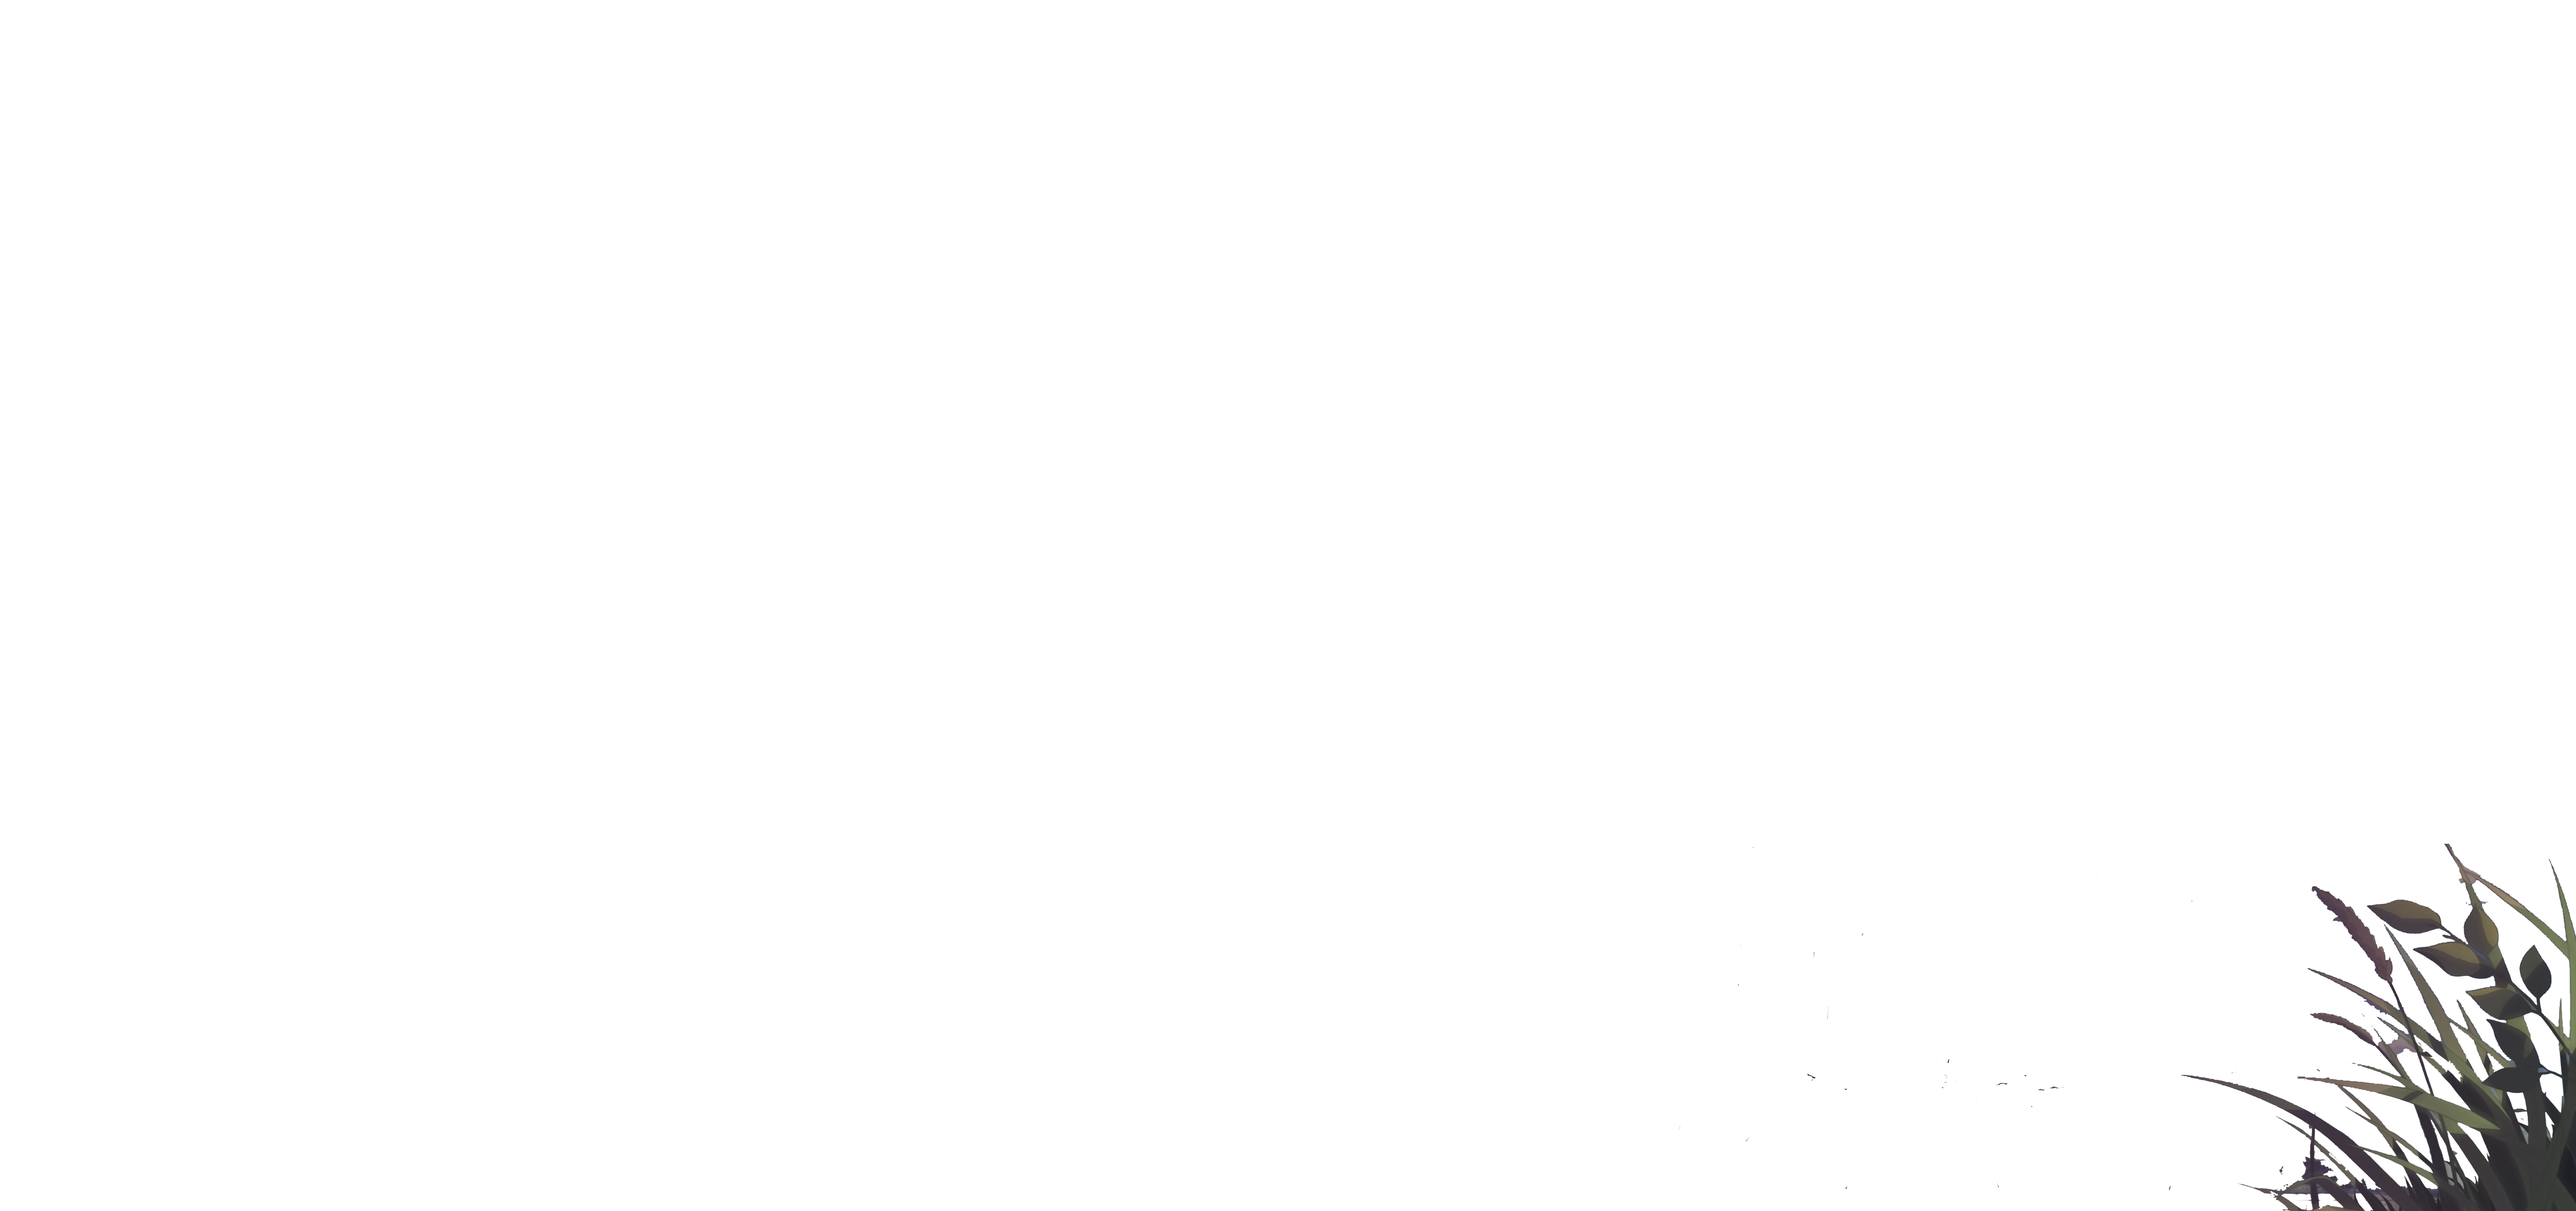
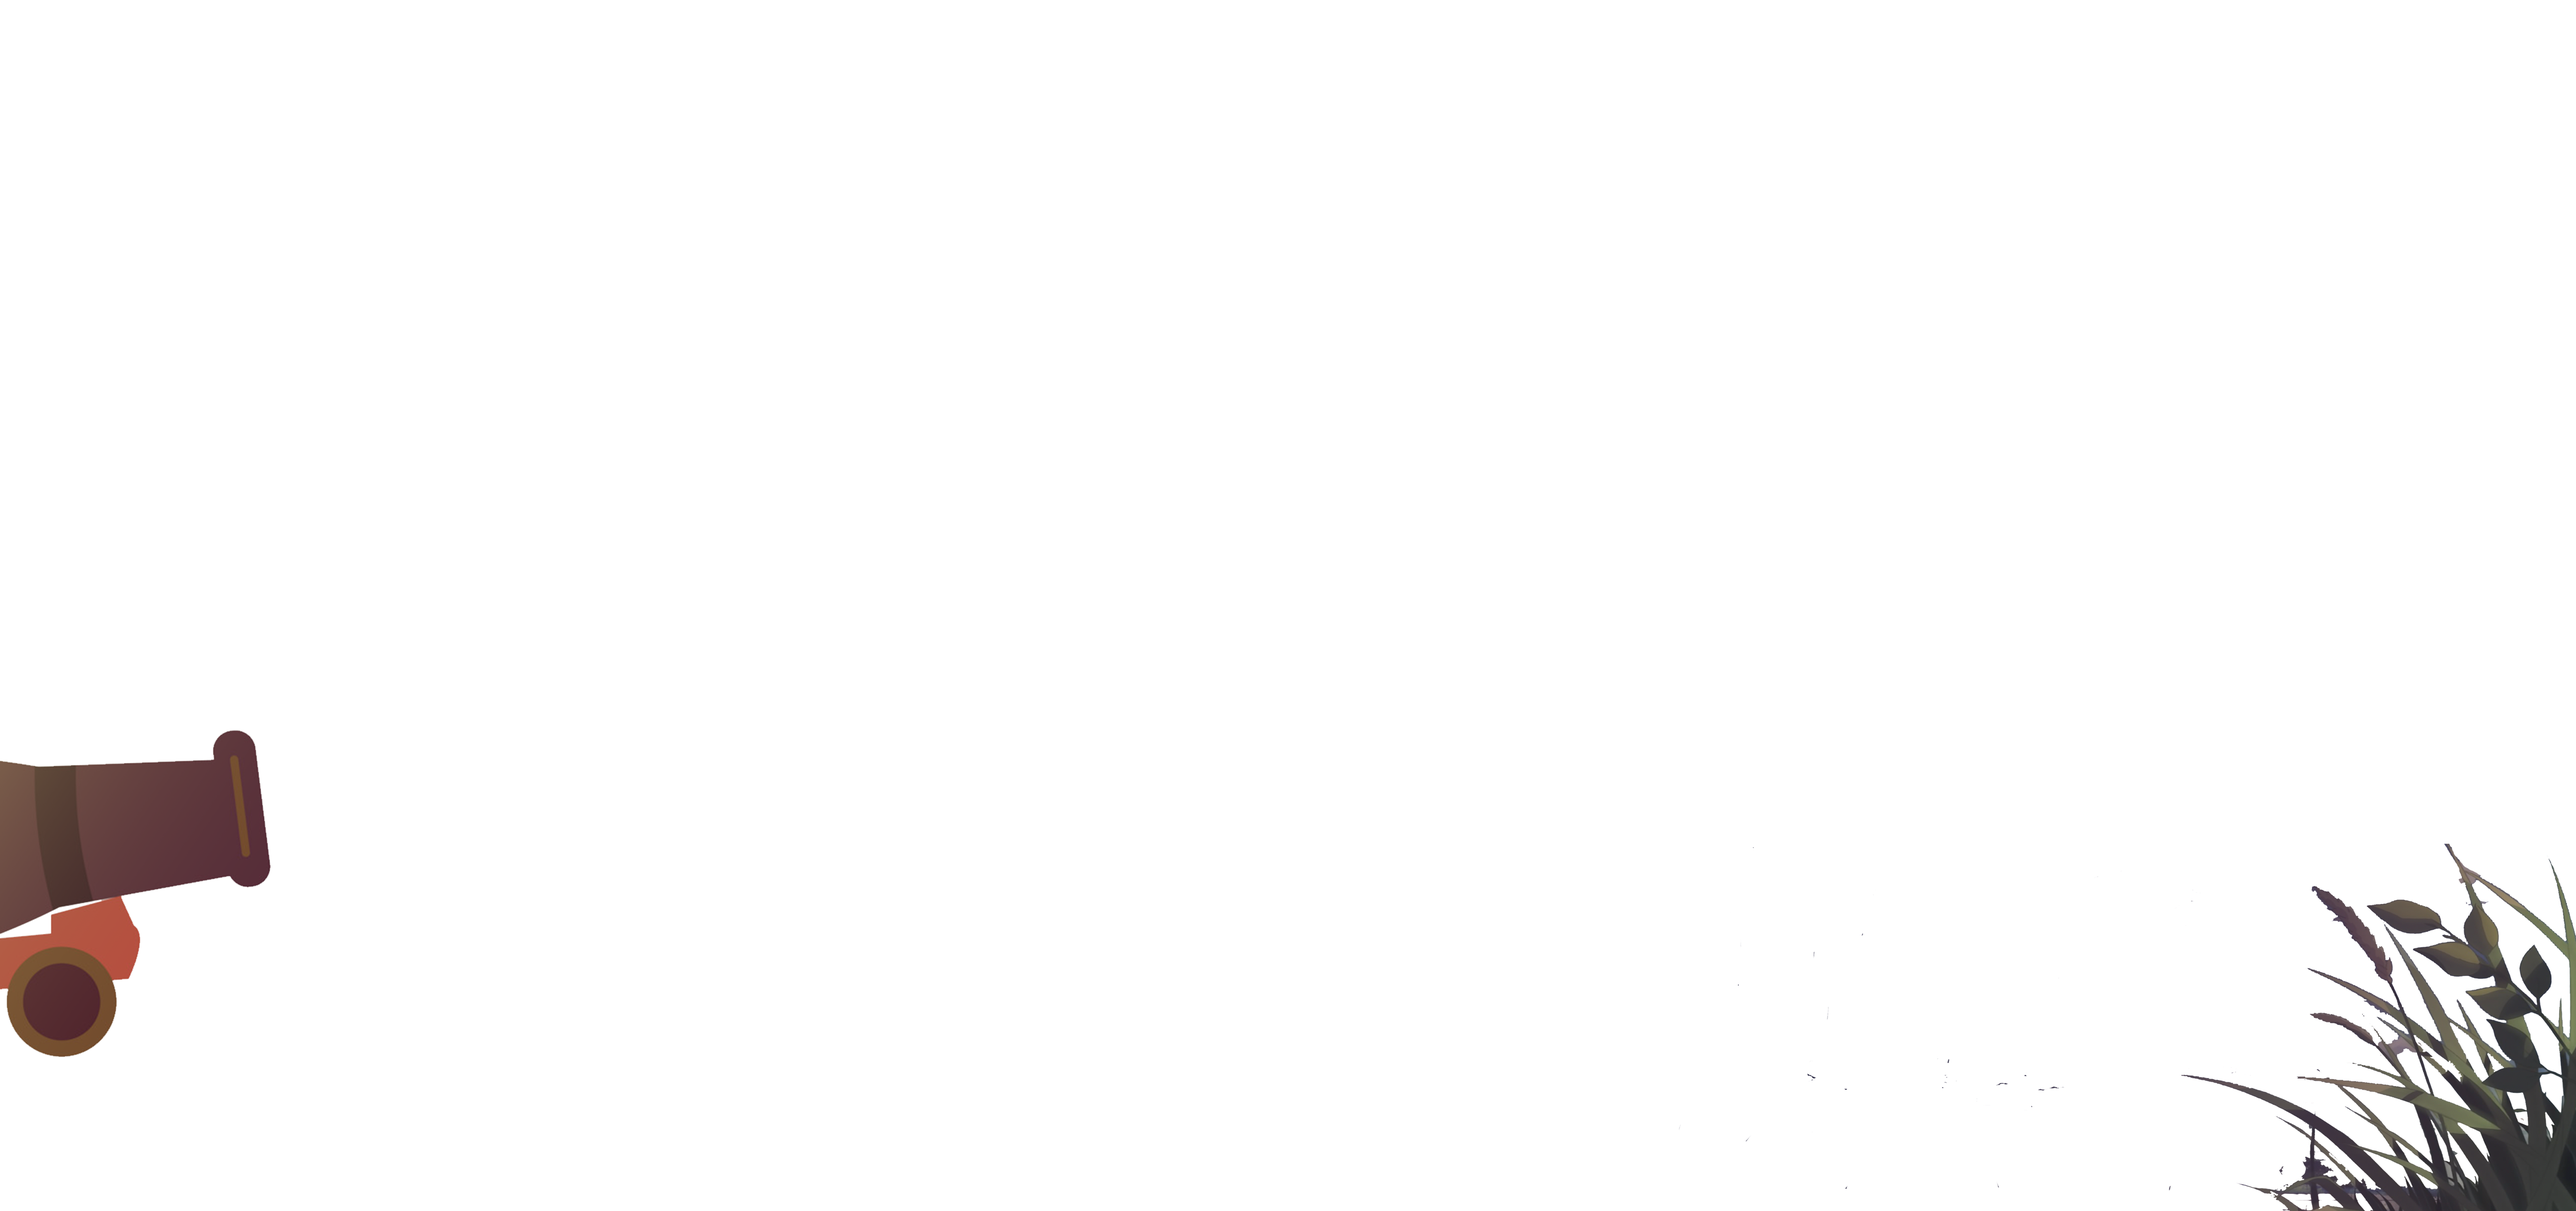
Added score screen, more breakables, and other fixes

Changed region(s): [[0.0, 0.592, 0.125, 0.8725]]

diff --git a/Gravity/GrumpyLizads.py b/Gravity/GrumpyLizads.py
@@ -10,7 +10,7 @@ from coords import Coords
 from polygon_stub import Polygon
 from wallPolygon import Wall
 from math import sqrt, acos, degrees, sin, cos
-from random import randint, random
+from random import uniform, randint, random
 from decimal import Decimal
 
 # Define some colors
@@ -133,15 +133,27 @@ def resolve_collision(result):
         
         if b.type == "polygon":
             if not a.breakable and b.breakable:
-                threshold = 0.4
+                if b.pig:
+                    threshold = 0.1
+                else:
+                    threshold = 0.6
                 if Jb.x > threshold or Jb.x < -threshold or Jb.y > threshold or Jb.y < -threshold:
                     b.destroyed = True
+            if a.breakable and b.breakable:
+                if b.pig:
+                    threshold = .1
+                    if Jb.x > threshold or Jb.x < -threshold or Jb.y > threshold or Jb.y < -threshold:
+                        b.destroyed = True
+        if b.type == "wall":
+            if a.pig:
+                threshold = 3
+                if Ja.x > threshold or Ja.x < -threshold or Ja.y > threshold or Ja.y < -threshold:
+                    a.destroyed = True
         
         a.impulse(Ja,pt)
         b.impulse(-Jb,pt)
     
 def main():
-    breakables = 2
     pygame.init()
     
     # Variable where the position where the new ball will be placed is stored
@@ -153,6 +165,12 @@ def main():
     
     background2 = pygame.image.load("background2.png")
     background2 = pygame.transform.scale(background2, (1600, 600))
+    
+    star = pygame.image.load("star-icon.png")
+    star = pygame.transform.scale(star, (100, 100))
+    
+    star2 = pygame.image.load("star-icon2.png")
+    star2 = pygame.transform.scale(star2, (100, 100))
  
     width = 1600
     height = 600
@@ -243,23 +261,20 @@ def main():
                     backgroundOffset = 0
                     mouseDownPosition = Vec2d(-1, -1)
                     score = 0
+                    breakables = 3
                     scoreText = myfont.render("Score = "+str(score), False, (255, 255, 255))
                 
                     # Blocks
-                    objects.append(Polygon(Vec2d(2,-1.75), Vec2d(0,0), 1, make_rectangle(2, 1), GRAY, 0, 0, False))
-                    objects.append(Polygon(Vec2d(1.4, -.25), Vec2d(0,0), 1, make_rectangle(0.6, 1.7), GRAY, 0, 0, False))
-                    objects.append(Polygon(Vec2d(2.6, -.25), Vec2d(0,0), 1, make_rectangle(0.6, 1.7), GRAY, 0, 0, False))
-                    objects.append(Polygon(Vec2d(5, -.25), Vec2d(0,0), 1, make_rectangle(1, 4), GRAY, 0, 0, False))
+                    
+                    objects.append(Polygon(Vec2d(2,-1.75), Vec2d(0,0), 1, make_rectangle(2, 1), GRAY, 0, 0))
+                    objects.append(Polygon(Vec2d(1.4, -.25), Vec2d(0,0), 1, make_rectangle(0.6, 1.7), GRAY, 0, 0))
+                    objects.append(Polygon(Vec2d(2.6, -.25), Vec2d(0,0), 1, make_rectangle(0.6, 1.7), GRAY, 0, 0))
+                    objects.append(Polygon(Vec2d(5, -.25), Vec2d(0,0), 1, make_rectangle(1, 4), GRAY, 0, 0))
+                    
                     # PIGS
-                    objects.append(Polygon(Vec2d(2, -1), Vec2d(0,0), 1, make_rectangle(0.4, 0.4), GREEN, 0, 0, True))
-                    objects.append(Polygon(Vec2d(5, 2), Vec2d(0,0), 1, make_rectangle(0.4, 0.4), GREEN, 0, 0, True))
-                    #objects.append(Polygon(Vec2d(-.75, .6), Vec2d(0,0), 1, make_rectangle(0.25, 1.5), GRAY, 0, 0))
-                    #objects.append(Polygon(Vec2d(.75, .6), Vec2d(0,0), 1, make_rectangle(0.25, 1.5), GRAY, 0, 0))
-                    #objects.append(Polygon(Vec2d(0, 1), Vec2d(0,0), 1, make_rectangle(0.5, 1.0), GRAY, 0, 0))
-                    #objects.append(Polygon(Vec2d(0, 2), Vec2d(0,0), 1, make_rectangle(2.0, 1.0), GRAY, 0, 0))
-                    #objects.append(Polygon(Vec2d(-0.5,1), Vec2d(0,0), 1, make_polygon(0.2,4,0,10), RED, 0, 1))
-                    #objects.append(Polygon(Vec2d(1,0), Vec2d(0,0), 1, make_polygon(0.3,7,0,3), BLUE, 0, -0.4))
-                    #objects.append(Polygon(Vec2d(-1,0), Vec2d(0,0), 1, make_polygon(1,3,0,0.5), GREEN, 0, 2))
+                    objects.append(Polygon(Vec2d(2, -1), Vec2d(0,0), 1, make_rectangle(0.4, 0.4), GREEN, 0, 0, True, True))
+                    objects.append(Polygon(Vec2d(5, 2), Vec2d(0,0), 1, make_rectangle(0.4, 0.4), GREEN, 0, 0, True, True))
+                    objects.append(Polygon(Vec2d(7, -2), Vec2d(0,0), 1, make_rectangle(0.4, 0.4), GREEN, 0, 0, True, True))
                     
                     # Walls
                     objects.append(Wall(Vec2d(0,-2.25), Vec2d(0,1), BLACK))
@@ -273,10 +288,6 @@ def main():
                     result = []
                     while not done:
                         # --- Main event loop
-
-                        if breakables == 0:
-                            breakables = 2
-                            break
                         for event in pygame.event.get(): 
                             if event.type == pygame.QUIT: # If user clicked close
                                 objects = []
@@ -299,12 +310,11 @@ def main():
                             newVelocityY = (mouseDownPosition.y - pygame.mouse.get_pos()[1]) * -0.07
                             # Create the new ball
                             #cannon(Vec2d(-3, 0), Vec2d(newVelocityX,newVelocityY))
-                            objects.append(Polygon(Vec2d(-7, 0), Vec2d(newVelocityX,newVelocityY), 1, make_polygon(0.3,8,0,1), BLACK, 0, 0, False))
+                            objects.append(Polygon(Vec2d(-6.8, -1.1), Vec2d(newVelocityX,newVelocityY), 1, make_polygon(0.3,8,0,1), BLACK, 0, 0, False))
                             count += 1
-                            print(count)
                             mouseDownPosition = Vec2d(-1, -1)
                             lineDrawn = False
-
+                        """
                         keys = pygame.key.get_pressed()
                         if keys[pygame.K_RIGHT]:
                             if(backgroundOffset > -800):
@@ -314,6 +324,93 @@ def main():
                             if(backgroundOffset < 0):
                                 coords.pan_in_coords(Vec2d(-.1,0))
                                 backgroundOffset += 10
+                        """
+                        if count == 3 or breakables == 0:
+                                score += 20 * (3 - count)
+                                scoringDone = False
+                                done = True
+                                while not scoringDone:
+                                    # --- Main event loop
+                                    for event in pygame.event.get(): 
+                                        if event.type == pygame.QUIT: # If user clicked close
+                                            objects = []
+                                            exitGame = True
+                                            scoringDone = True
+                                        elif event.type == pygame.KEYDOWN: 
+                                            if event.key == pygame.K_ESCAPE:
+                                                objects = []
+                                                scoringDone = True
+                                    
+                                    for N in range(n_per_frame):
+                                        # Physics
+                                        # Calculate the force on each object
+                                        for obj in objects:
+                                            obj.force.zero()
+                                            obj.force += Vec2d(0,-10) # gravity
+                                   
+                                        # Move each object according to physics
+                                        for obj in objects:
+                                            obj.update(dt)
+                                            
+                                        for i in range(max_collisions):
+                                            collided = False
+                                            for i1 in range(len(objects)):
+                                                for i2 in range(i1):
+                                                    if check_collision(objects[i1], objects[i2], result):
+                                                        resolve_collision(result)
+                                                        collided = True
+                                                        #print("Collision")
+                                                        #paused = True
+                                            if not collided: # if all collisions resolved, then we're done
+                                                break
+                                    
+                                    # Draw background
+                                    screen.blit(background, (backgroundOffset,0))
+                                    
+                                    # Drawing
+                                    for obj in objects:
+                                        obj.draw(screen, coords)
+                                        
+                                    for obj in objects:
+                                        if obj.destroyed:
+                                            #Update Score
+                                            if obj.pig:
+                                                breakables -= 1
+                                                score += 20
+                                            score += round(Decimal(obj.mass),2) * 2
+                                            scoreText = myfont.render("Score = "+str(score), False, (255, 255, 255))
+                                            
+                                            #Delete destroyed objects
+                                            objects.remove(obj)
+                                            del obj
+                                        
+                                    screen.blit(background2, (backgroundOffset,0))
+                        
+                                    # Draw score
+                                    screen.blit(scoreText, (700,250))
+                                    
+                                    if breakables == 3:
+                                        screen.blit(star2, (600,100))
+                                        screen.blit(star2, (740,100))
+                                        screen.blit(star2, (890,100))
+                                    if breakables == 2:
+                                        screen.blit(star, (600,100))
+                                        screen.blit(star2, (740,100))
+                                        screen.blit(star2, (890,100))
+                                    if breakables == 1:
+                                        screen.blit(star, (600,100))
+                                        screen.blit(star, (740,100))
+                                        screen.blit(star2, (890,100))
+                                    if breakables == 0:
+                                        screen.blit(star, (600,100))
+                                        screen.blit(star, (740,100))
+                                        screen.blit(star, (890,100))
+                                    
+                                    # --- Update the screen with what we've drawn.
+                                    pygame.display.update()
+                    
+                                    # This limits the loop to the specified frame rate
+                                    clock.tick(frame_rate)
                         
                         for N in range(n_per_frame):
                             # Physics
@@ -347,20 +444,17 @@ def main():
                             obj.draw(screen, coords) # draw object to screen
                             
                         for obj in objects:
-                            obj.update(dt)
                             if obj.destroyed:
                                 #Update Score
-                                breakables -= 1
-                                score += round(Decimal(obj.mass),2)
+                                if obj.pig:
+                                    breakables -= 1
+                                    score += 20
+                                score += round(Decimal(obj.mass),2) * 2
                                 scoreText = myfont.render("Score = "+str(score), False, (255, 255, 255))
                                 
                                 #Delete destroyed objects
                                 objects.remove(obj)
                                 del obj
-                                
-                            if count > 3:
-                                #>add reset for balls
-                                count = 0
                         
                         screen.blit(background2, (backgroundOffset,0))
                         

diff --git a/Gravity/polygon_stub.py b/Gravity/polygon_stub.py
@@ -10,7 +10,7 @@ from vec2d import Vec2d
 import pygame
 
 class Polygon:
-    def __init__(self, pos, vel, density, points, color, angle=0, angvel=0, breakable=True):
+    def __init__(self, pos, vel, density, points, color, angle=0, angvel=0, breakable=True, pig=False):
         self.pos = pos
         self.vel = vel
         self.color = color
@@ -23,6 +23,7 @@ class Polygon:
         self.type = "polygon"
         self.breakable = breakable
         self.destroyed = False
+        self.pig = pig
 
         # Set origpoints
         self.origpoints = []
@@ -143,12 +144,12 @@ class Polygon:
         for p in self.points:
             points.append(coords.pos_to_screen(self.pos + p))
         pygame.draw.polygon(screen, self.color, points)
-        if False:
+        """if False:
             for i in range(len(points)):
                 length = 50
                 n = coords.unitvec_to_other(self.normals[i])
                 p = (points[i] + points[i-1])/2
-                pygame.draw.line(screen, (0,0,0), p, p + length*n)
+                pygame.draw.line(screen, (0,0,0), p, p + length*n)"""
                 
     def check_collision(self, other, result=[]):
         result.clear() # See polygon_collision_test.py in check_collision()
